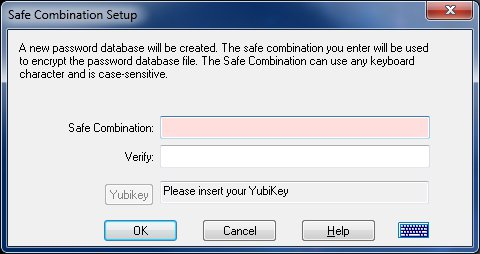
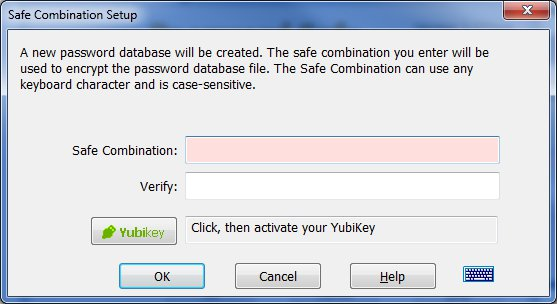
Yubi: Update help text and images with new graphics.

diff --git a/help/default/html/about_pws_yubi.html b/help/default/html/about_pws_yubi.html
@@ -32,9 +32,10 @@
     and above.<br>
     <h2> Installing the Windows Client API</h2>
     For PasswordSafe to communicate with your YubiKey, the Windows
-    Client API needs to be installed on your PC. You can download the
-    binary installer for the Windows Client API free of charge from <a
-      href="http://static.yubico.com/var/uploads/files/Yubikey%20Server%20API%20Installer.msi">here</a>.
+    Client API needs to be installed on your PC. The PasswordSafe
+    installation program will install this for you by default.
+    Alternately, you can download the binary installer for the Windows
+    Client API free of charge from <a href="http://static.yubico.com/var/uploads/files/Yubikey%20Server%20API%20Installer.msi">here</a>.
     After downloading, just double-click on the downloaded file and
     follow instructions. Note that without the client API, this version
     of PasswordSafe cannot recognize your YubiKey, and will only offer
@@ -45,6 +46,7 @@
     PasswordSafe. Yubico provides several personalization tools that can
     be used to configure YubiKey devices <a href="http://www.yubico.com/personalization-tool">here</a>.
     The following instructions refer to the <a href="http://static.yubico.com/var/uploads/files/Yubikey%20Configuration%20COM%20API%20Installer.msi">Windows
+
 
 
 
@@ -69,11 +71,11 @@
       </li>
     </ol>
     <strong>Note</strong>: The Secret Key generated in step 7 is what
-    makes your YubiKey unique. If you wish, you can create a spare
-    YubiKey with the same secret key to use in case of loss of the
-    original YubiKey. Just remove the original YubiKey, insert the
-    spare, and click on Write Configuration <em>without </em>changing
-    the Secret Key.<br>
+    makes your YubiKey unique. To protect against loss of your YubiKey,
+    we recommend&nbsp; that&nbsp; you create a spare YubiKey with the
+    same secret key to use in case of loss of the original YubiKey. Just
+    remove the original YubiKey, insert the spare, and click on Write
+    Configuration <em>without </em>changing the Secret Key.<br>
     <br>
     The following image shows the relevant screen and settings:<br>
     <br>
